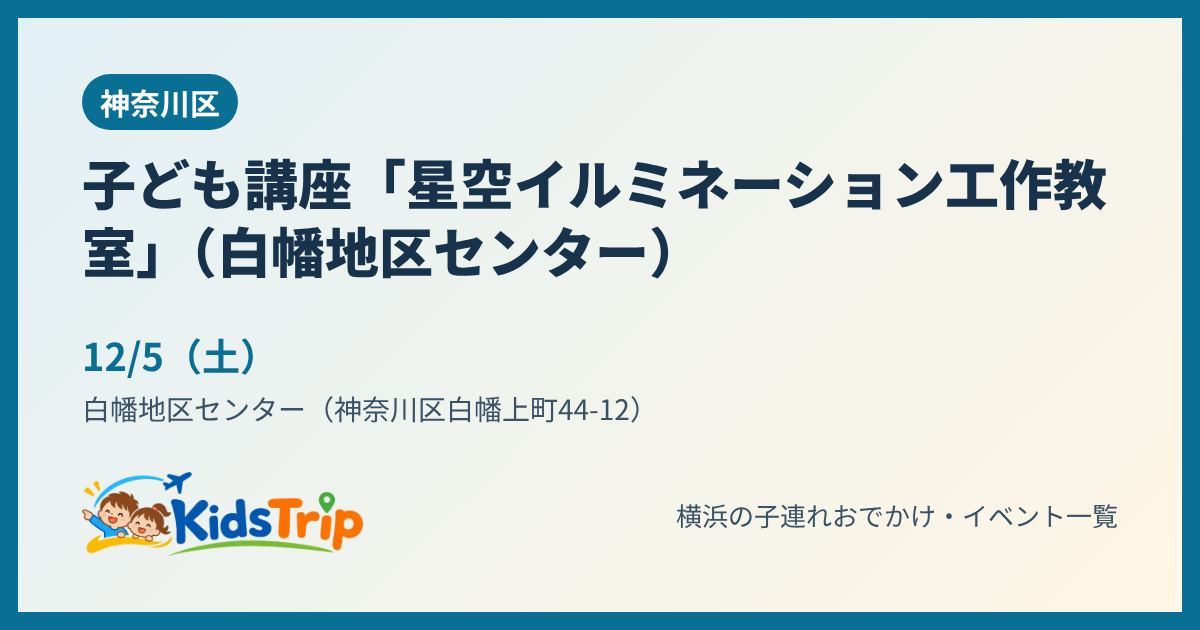
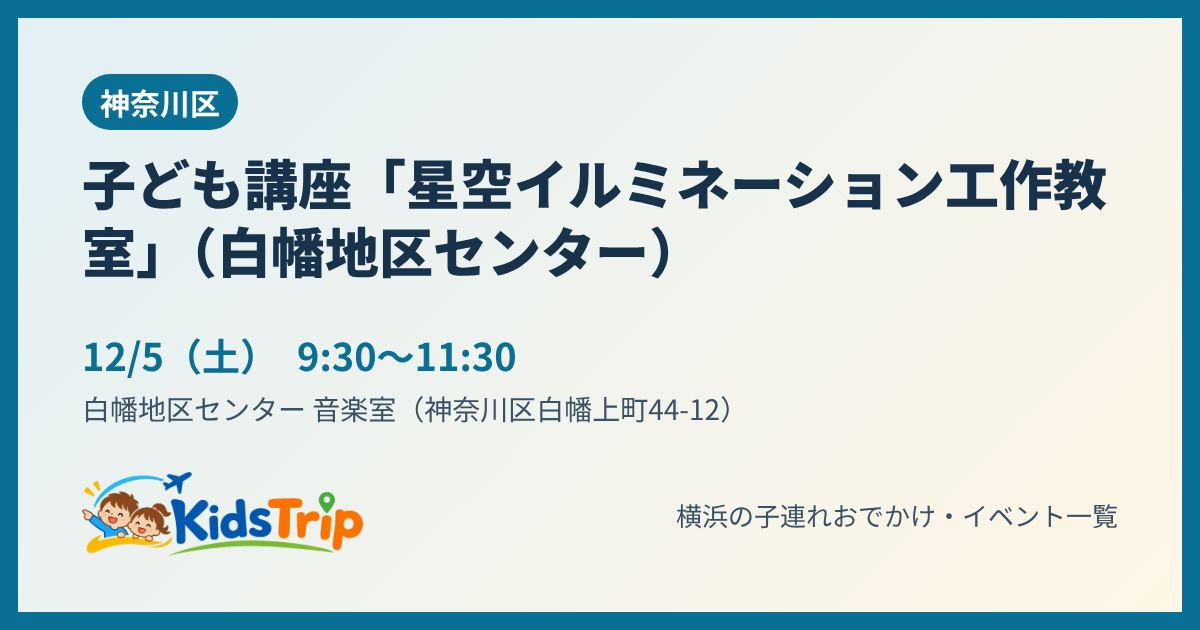
11月23日 昼の確認：白幡地区センターの星空イルミネーション工作教室を公式で確認（時間・料金・対象・定員）、BALLPARK Xmasのパウ・パトロールは未発表のまま
Claude-Session: https://claude.ai/code/session_014AtJ2fXSmfLzATQZ3NbZUq

Changed region(s): [[0.2467, 0.6333, 0.6167, 0.6937], [0.2467, 0.5429, 0.4317, 0.6032]]

diff --git a/event/1hopkjs/index.html b/event/1hopkjs/index.html
@@ -4,12 +4,12 @@
 <meta charset="utf-8">
 <meta name="viewport" content="width=device-width, initial-scale=1">
 <title>子ども講座「星空イルミネーション工作教室」（白幡地区センター）（神奈川区）｜横浜の子連れイベント｜KidsTrip</title>
-<meta name="description" content="12月5日(土)　白幡地区センター（神奈川区白幡上町44-12）。子ども向けの、星空イルミネーションを作る工作教室。">
+<meta name="description" content="12月5日(土)　白幡地区センター 音楽室（神奈川区白幡上町44-12）。小学生が保護者といっしょに、星空のイルミネーションを作る工作教室。">
 <link rel="canonical" href="https://kidstrip.jp/event/1hopkjs/">
 <meta property="og:type" content="article">
 <meta property="og:site_name" content="KidsTrip">
 <meta property="og:title" content="子ども講座「星空イルミネーション工作教室」（白幡地区センター）（神奈川区）｜横浜の子連れイベント｜KidsTrip">
-<meta property="og:description" content="12月5日(土)　白幡地区センター（神奈川区白幡上町44-12）。子ども向けの、星空イルミネーションを作る工作教室。">
+<meta property="og:description" content="12月5日(土)　白幡地区センター 音楽室（神奈川区白幡上町44-12）。小学生が保護者といっしょに、星空のイルミネーションを作る工作教室。">
 <meta property="og:url" content="https://kidstrip.jp/event/1hopkjs/">
 <meta property="og:image" content="https://kidstrip.jp/og/1hopkjs.jpg">
 <meta property="og:image:width" content="1200">
@@ -21,7 +21,7 @@
 <link rel="icon" href="../../img/favicon.png">
 <link rel="apple-touch-icon" href="../../img/apple-touch-icon.png">
 <script type="application/ld+json">{"@context": "https://schema.org", "@type": "BreadcrumbList", "itemListElement": [{"@type": "ListItem", "position": 1, "name": "トップ", "item": "https://kidstrip.jp/"}, {"@type": "ListItem", "position": 2, "name": "イベント", "item": "https://kidstrip.jp/"}, {"@type": "ListItem", "position": 3, "name": "子ども講座「星空イルミネーション工作教室」（白幡地区センター）"}]}</script>
-<script type="application/ld+json">{"@context": "https://schema.org", "@type": "Event", "name": "子ども講座「星空イルミネーション工作教室」（白幡地区センター）", "startDate": "2026-12-05", "endDate": "2026-12-05", "eventStatus": "https://schema.org/EventScheduled", "eventAttendanceMode": "https://schema.org/OfflineEventAttendanceMode", "location": {"@type": "Place", "name": "白幡地区センター", "address": {"@type": "PostalAddress", "streetAddress": "白幡上町44-12", "addressLocality": "横浜市神奈川区", "addressRegion": "神奈川県", "addressCountry": "JP"}}, "description": "子ども向けの、星空イルミネーションを作る工作教室。", "image": ["https://kidstrip.jp/og/1hopkjs.jpg"], "url": "https://kidstrip.jp/event/1hopkjs/", "isAccessibleForFree": false, "inLanguage": "ja"}</script>
+<script type="application/ld+json">{"@context": "https://schema.org", "@type": "Event", "name": "子ども講座「星空イルミネーション工作教室」（白幡地区センター）", "startDate": "2026-12-05T09:30:00+09:00", "endDate": "2026-12-05", "eventStatus": "https://schema.org/EventScheduled", "eventAttendanceMode": "https://schema.org/OfflineEventAttendanceMode", "location": {"@type": "Place", "name": "白幡地区センター 音楽室", "address": {"@type": "PostalAddress", "streetAddress": "白幡上町44-12", "addressLocality": "横浜市神奈川区", "addressRegion": "神奈川県", "addressCountry": "JP"}}, "description": "小学生が保護者といっしょに、星空のイルミネーションを作る工作教室。", "image": ["https://kidstrip.jp/og/1hopkjs.jpg"], "url": "https://kidstrip.jp/event/1hopkjs/", "isAccessibleForFree": false, "inLanguage": "ja", "offers": {"@type": "Offer", "price": 800, "priceCurrency": "JPY", "url": "https://shirahata-cc.com/event/8043", "availability": "https://schema.org/InStock"}}</script>
 <style>
 .gkcmp th[scope=row]{white-space:nowrap}.gkcmp td{font-size:.92em}
 .gk{list-style:none;padding:0}.gk li{border:1px solid #e5e5e5;border-radius:10px;padding:10px 12px;margin:8px 0;line-height:1.7}.gk h3{margin:0 0 2px;font-size:1.02em}
@@ -51,23 +51,23 @@ footer{margin:28px 0 8px;font-size:12px;color:var(--muted)}
 <article class="card">
 <h1>子ども講座「星空イルミネーション工作教室」（白幡地区センター）</h1>
 
-<ul class="chips"><li>料金要確認</li><li>子ども（対象は未確認）</li><li>屋内</li><li>雨でもOK</li></ul>
+<ul class="chips"><li>有料</li><li>小学生（保護者同伴）</li><li>屋内</li><li>雨でもOK</li></ul>
 <table class="info">
 <tr><th>日にち</th><td>12月5日(土)</td></tr>
-<tr><th>時間</th><td>公式ページで未確認（くわしくは電話で）</td></tr>
-<tr><th>場所</th><td>神奈川区・白幡地区センター（神奈川区白幡上町44-12）</td></tr>
-<tr><th>料金</th><td>公式ページで未確認（くわしくは電話で）</td></tr>
-<tr><th>対象</th><td>子ども（対象は未確認）</td></tr>
-<tr><th>予約</th><td>公式ページで未確認（くわしくは電話で） 045-430-3050</td></tr>
+<tr><th>時間</th><td>9:30〜11:30</td></tr>
+<tr><th>場所</th><td>神奈川区・白幡地区センター 音楽室（神奈川区白幡上町44-12）</td></tr>
+<tr><th>料金</th><td>800円</td></tr>
+<tr><th>対象</th><td>小学生（保護者同伴）</td></tr>
+<tr><th>予約</th><td>先着10組。11/14 9時から電話か来館で保護者が申し込み（045-430-3050）</td></tr>
 <tr><th>雨の日</th><td>雨でもOK（屋内なので雨でもOK）</td></tr>
 </table>
-<p class="sum">子ども向けの、星空イルミネーションを作る工作教室。</p>
-<p class="tip">💡 時間・対象・料金は公式の詳しいページで確認を。</p>
-<p class="small">情報の時点：2026年11月17日　出典：白幡地区センター公式（イベント一覧）</p>
+<p class="sum">小学生が保護者といっしょに、星空のイルミネーションを作る工作教室。</p>
+<p class="tip">💡 持ち物：はさみ2本・スティックのり・手拭きタオルかウエットティッシュ・持ち帰り用の袋（20cm四方の箱が入るもの）。</p>
+<p class="small">情報の時点：2026年11月23日　出典：白幡地区センター公式（イベント詳細）</p>
 <div class="btns"><a class="btn main" data-act="official" href="https://shirahata-cc.com/event/8043" target="_blank" rel="noopener">公式ページで確認</a>
 <a class="btn" href="/?e=1hopkjs">一覧で見る（行き方・近くのごはん）</a>
 <button type="button" class="btn" data-share="1">🔗 リンクを送る・コピー</button>
-<a class="btn line" href="https://line.me/R/share?text=%E3%80%90%E5%AD%90%E3%81%A9%E3%82%82%E8%AC%9B%E5%BA%A7%E3%80%8C%E6%98%9F%E7%A9%BA%E3%82%A4%E3%83%AB%E3%83%9F%E3%83%8D%E3%83%BC%E3%82%B7%E3%83%A7%E3%83%B3%E5%B7%A5%E4%BD%9C%E6%95%99%E5%AE%A4%E3%80%8D%EF%BC%88%E7%99%BD%E5%B9%A1%E5%9C%B0%E5%8C%BA%E3%82%BB%E3%83%B3%E3%82%BF%E3%83%BC%EF%BC%89%E3%80%91%0A12%E6%9C%885%E6%97%A5%28%E5%9C%9F%29%E3%80%80%E5%85%AC%E5%BC%8F%E3%83%9A%E3%83%BC%E3%82%B8%E3%81%A7%E6%9C%AA%E7%A2%BA%E8%AA%8D%EF%BC%88%E3%81%8F%E3%82%8F%E3%81%97%E3%81%8F%E3%81%AF%E9%9B%BB%E8%A9%B1%E3%81%A7%EF%BC%89%0A%E5%A0%B4%E6%89%80%EF%BC%9A%E7%A5%9E%E5%A5%88%E5%B7%9D%E5%8C%BA%E3%83%BB%E7%99%BD%E5%B9%A1%E5%9C%B0%E5%8C%BA%E3%82%BB%E3%83%B3%E3%82%BF%E3%83%BC%EF%BC%88%E7%A5%9E%E5%A5%88%E5%B7%9D%E5%8C%BA%E7%99%BD%E5%B9%A1%E4%B8%8A%E7%94%BA44-12%EF%BC%89%0Ahttps%3A//kidstrip.jp/event/1hopkjs/" target="_blank" rel="noopener">LINEで送る</a></div>
+<a class="btn line" href="https://line.me/R/share?text=%E3%80%90%E5%AD%90%E3%81%A9%E3%82%82%E8%AC%9B%E5%BA%A7%E3%80%8C%E6%98%9F%E7%A9%BA%E3%82%A4%E3%83%AB%E3%83%9F%E3%83%8D%E3%83%BC%E3%82%B7%E3%83%A7%E3%83%B3%E5%B7%A5%E4%BD%9C%E6%95%99%E5%AE%A4%E3%80%8D%EF%BC%88%E7%99%BD%E5%B9%A1%E5%9C%B0%E5%8C%BA%E3%82%BB%E3%83%B3%E3%82%BF%E3%83%BC%EF%BC%89%E3%80%91%0A12%E6%9C%885%E6%97%A5%28%E5%9C%9F%29%E3%80%809%3A30%E3%80%9C11%3A30%0A%E5%A0%B4%E6%89%80%EF%BC%9A%E7%A5%9E%E5%A5%88%E5%B7%9D%E5%8C%BA%E3%83%BB%E7%99%BD%E5%B9%A1%E5%9C%B0%E5%8C%BA%E3%82%BB%E3%83%B3%E3%82%BF%E3%83%BC%20%E9%9F%B3%E6%A5%BD%E5%AE%A4%EF%BC%88%E7%A5%9E%E5%A5%88%E5%B7%9D%E5%8C%BA%E7%99%BD%E5%B9%A1%E4%B8%8A%E7%94%BA44-12%EF%BC%89%0Ahttps%3A//kidstrip.jp/event/1hopkjs/" target="_blank" rel="noopener">LINEで送る</a></div>
 </article>
 
 

diff --git a/event/x0mfmo/index.html b/event/x0mfmo/index.html
@@ -62,8 +62,8 @@ footer{margin:28px 0 8px;font-size:12px;color:var(--muted)}
 <tr><th>雨の日</th><td>天気に注意（雨天決行（荒天時は休業の場合あり））</td></tr>
 </table>
 <p class="sum">横浜公園のクリスマスイベントで、パウ・パトロールのクイズラリーと、マーシャルとのグリーティングがある2日間。11/30〜12/6は限定ショップ・おもちゃ広場も。</p>
-<p class="tip">💡 グリーティングの時間・整理券の有無は公式サイトで確認を</p>
-<p class="small">情報の時点：2026年11月15日　出典：実行委員会のプレスリリース（2026年11月4日）・横浜市観光情報サイト</p>
+<p class="tip">💡 11/23時点で公式サイトにはまだパウ・パトロールの企画の時間が載っていない。グリーティングの時間・整理券の有無は公式サイトで確認を</p>
+<p class="small">情報の時点：2026年11月23日　出典：実行委員会のプレスリリース（2026年11月4日）・横浜市観光情報サイト</p>
 <div class="btns"><a class="btn main" data-act="official" href="https://ballparkxmas.com/2026/" target="_blank" rel="noopener">公式ページで確認</a>
 <a class="btn" href="/?e=x0mfmo">一覧で見る（行き方・近くのごはん）</a>
 <button type="button" class="btn" data-share="1">🔗 リンクを送る・コピー</button>

diff --git a/index.html b/index.html
@@ -754,7 +754,7 @@ section[id], div[id="events"] { scroll-margin-top: 56px; }
   </footer>
 </div>
 
-<script src="js/data.js?v=5d4067b554" defer></script>
+<script src="js/data.js?v=f048074ca2" defer></script>
 <script src="js/app.js?v=1e28e73a7b" defer></script>
 </body>
 </html>

diff --git a/tools/runs.md b/tools/runs.md
@@ -82,3 +82,4 @@
 | 2026-11-23 | 利用者との作業 | 11:42〜11:42 | 3 | パマトコ（ハマハグ）の画面から：モスバーガー横浜桜木町店（お湯・おむつ交換台）をお店に、セブン-イレブン横浜桜木町駅前店（お湯・トイレ）を赤ちゃん設備に追加、トレッサにハマハグの掲載内容 |
 | 2026-11-23 | 利用者との作業 | 11:44〜11:44 | 2 | パマトコ（ハマハグ）から東天紅 横浜桜木町ワシントンホテル店と阿里山 桜木町店（ランチ向き・利用者の判断）をお店に追加 |
 | 2026-11-23 | 利用者との作業 | 11:45〜11:45 | 1 | 阿里山 桜木町店に位置がなく、ページのJSが止まったため外して直す（数分間エラーが出ていた） |
+| 2026-11-23 | 昼の確認 | 11:41〜11:49 | 2 | 白幡地区センターの星空イルミネーション工作教室（12/5）を公式で確認（9:30〜11:30・800円・小学生と保護者・先着10組）。BALLPARK Xmasのパウ・パトロールは公式にまだ時間なし。ワールドポーターズ・MARK IS・ららぽーと横浜・BALLPARK Xmasの期間内の親子向けイベントはすべて掲載済み |
